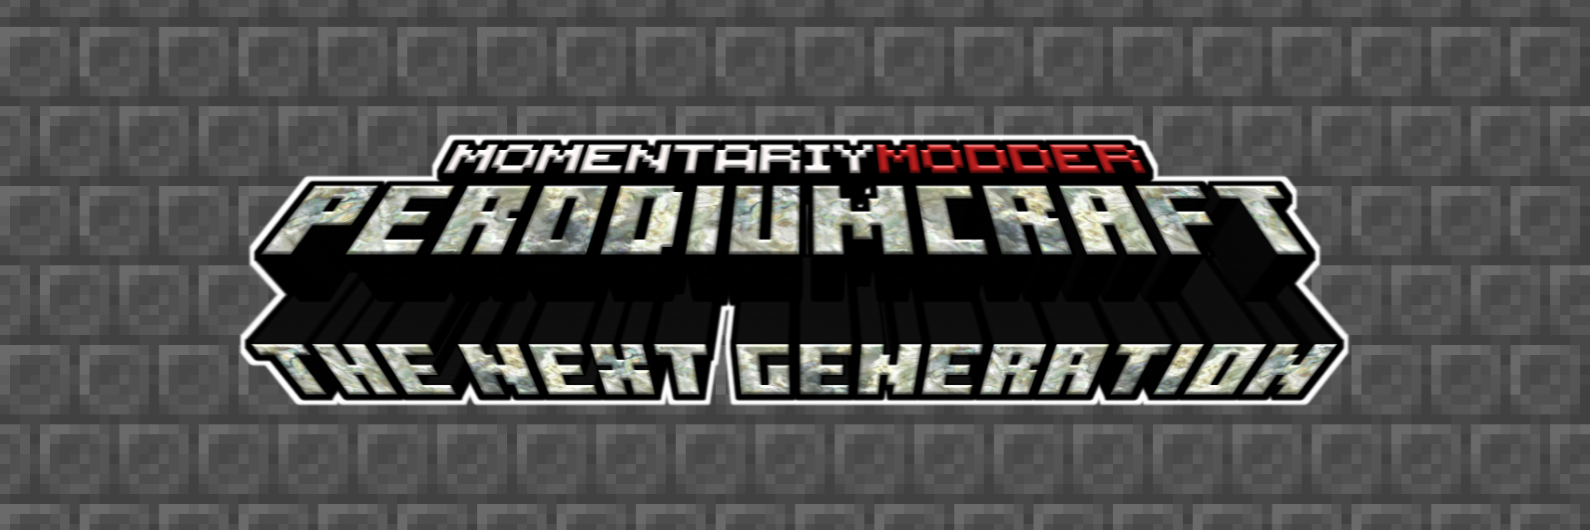
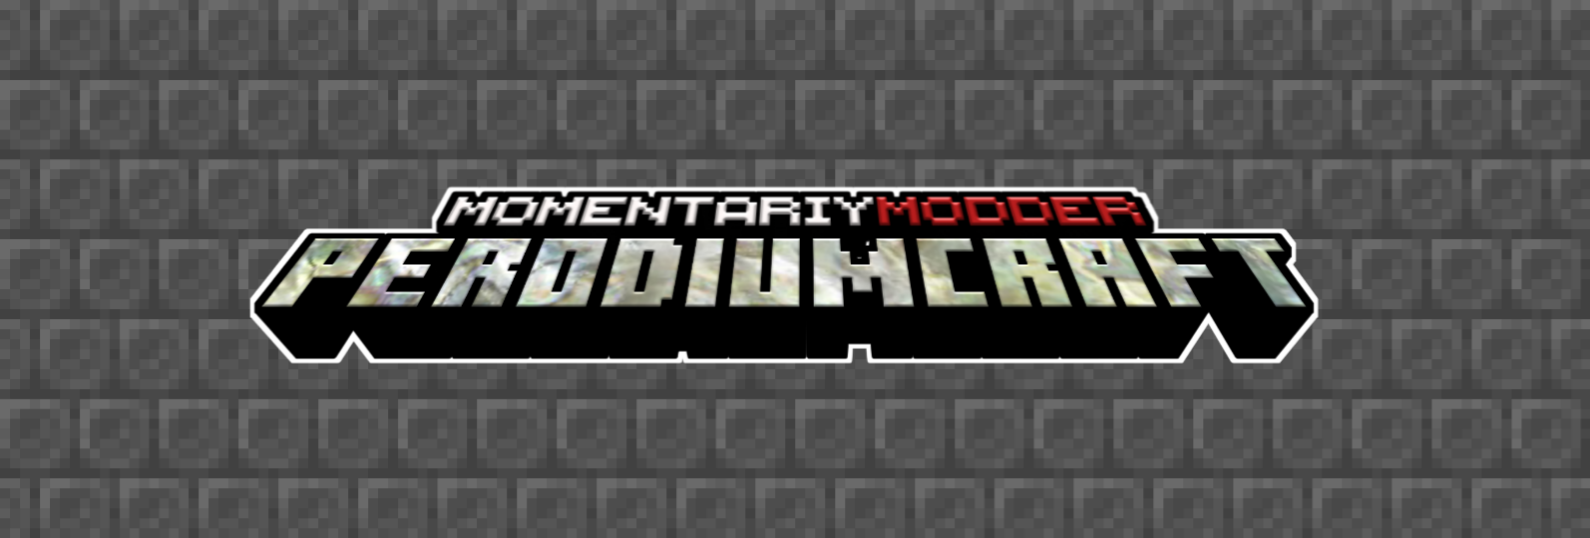
Rebrand PerodiumCraft

diff --git a/perodiumcraft.html b/perodiumcraft.html
@@ -61,7 +61,7 @@
       <p align="center">
 	    <img src="img/perodiumcraft/banner.png" width="50%" class="enlarge">
         <strong></strong>
-		<strong>PerodiumCraft: The Next Generation</strong>
+		<strong>PerodiumCraft</strong>
         A new main resource appears in the game - Perodium. It is possible to make super-tools and super-armor from it. 
 		<strong></strong>
 		It is not so easy to create a periodium. But you will be pleased with the result. And a new world is added.
@@ -74,9 +74,10 @@
 	  <strong>Download</strong>
       <a href="https://www.curseforge.com/minecraft/mc-mods/perodiumcraft"><img src="img/curseforge.png" alt="" width="25%" class="enlarge"></a>
       <a href="https://modrinth.com/mod/perodiumcraft"><img src="img/modrinth.png" alt="" width="25%" class="enlarge"></a>
+	  <a href="https://mcreator.net/modification/86306/perodiumcraft-next-generation-only-forge"><img src="img/mcreator.png" alt="" width="25%" class="enlarge"></a>
 	  <a href="https://github.com/MomentariyModder/release/tree/main/SUPPORTED/PerodiumCraft-The Next Generation"><img src="img/mirror.png" alt="" width="25%" class="enlarge"></a>
-      </div>
 	  </p>
+	  </div>
 	  <p align="center">
 	  <a href="index.html" class="btn2">◀ Back</a>
 	  </p>

diff --git a/ssreload.html b/ssreload.html
@@ -81,9 +81,10 @@
 	  <strong>Download</strong>
       <a href="https://www.curseforge.com/minecraft/mc-mods/spongebob-squarepants-reload"><img src="img/curseforge.png" alt="" width="25%" class="enlarge"></a>
       <a href="https://modrinth.com/mod/spongebob-squarepants-reload"><img src="img/modrinth.png" alt="" width="25%" class="enlarge"></a>
-	  <a href="https://github.com/MomentariyModder/release/tree/main/SUPPORTED/SpongeBob Squarepants Reload"><img src="img/mirror.png" alt="" width="25%" class="enlarge"></a>
-      </div>
+	  <a href="https://mcreator.net/modification/86307/spongebob-squarepants-reload-only-forge"><img src="img/mcreator.png" alt="" width="25%" class="enlarge"></a>
+   	  <a href="https://github.com/MomentariyModder/release/tree/main/SUPPORTED/SpongeBob Squarepants Reload"><img src="img/mirror.png" alt="" width="25%" class="enlarge"></a>
 	  </p>
+	  </div>
 	  <p align="center">
 	  <a href="index.html" class="btn2">◀ Back</a>
 	  </p>

diff --git a/ma.html b/ma.html
@@ -72,9 +72,10 @@
 	  <strong>Download</strong>
       <a href="https://www.curseforge.com/minecraft/mc-mods/momentariycore"><img src="img/curseforge.png" alt="" width="25%" class="enlarge"></a>
       <a href="https://modrinth.com/mod/momentariycore2"><img src="img/modrinth.png" alt="" width="25%" class="enlarge"></a>
+	  <a href="https://mcreator.net/modification/86305/momentariymodderapplications-only-forge"><img src="img/mcreator.png" alt="" width="25%" class="enlarge"></a>
 	  <a href="https://github.com/MomentariyModder/release/tree/main/SUPPORTED/MomentariyModder'Applications"><img src="img/mirror.png" alt="" width="25%" class="enlarge"></a>
-      </div>
-	  </p>
+      </p>
+	  </div>
 	  <p align="center">
 	  <a href="index.html" class="btn2">◀ Back</a>
 	  </p>

diff --git a/index.html b/index.html
@@ -82,7 +82,7 @@
       <p align="center">
         <img src="img/perodiumcraft/banner.png" class="enlarge">
         <strong></strong>
-		<strong>PerodiumCraft: The Next Generation</strong>
+		<strong>PerodiumCraft</strong>
         A new main resource appears in the game - Perodium.
      	<strong></strong>
 		<a href="perodiumcraft.html" class="btn2">More</a>
